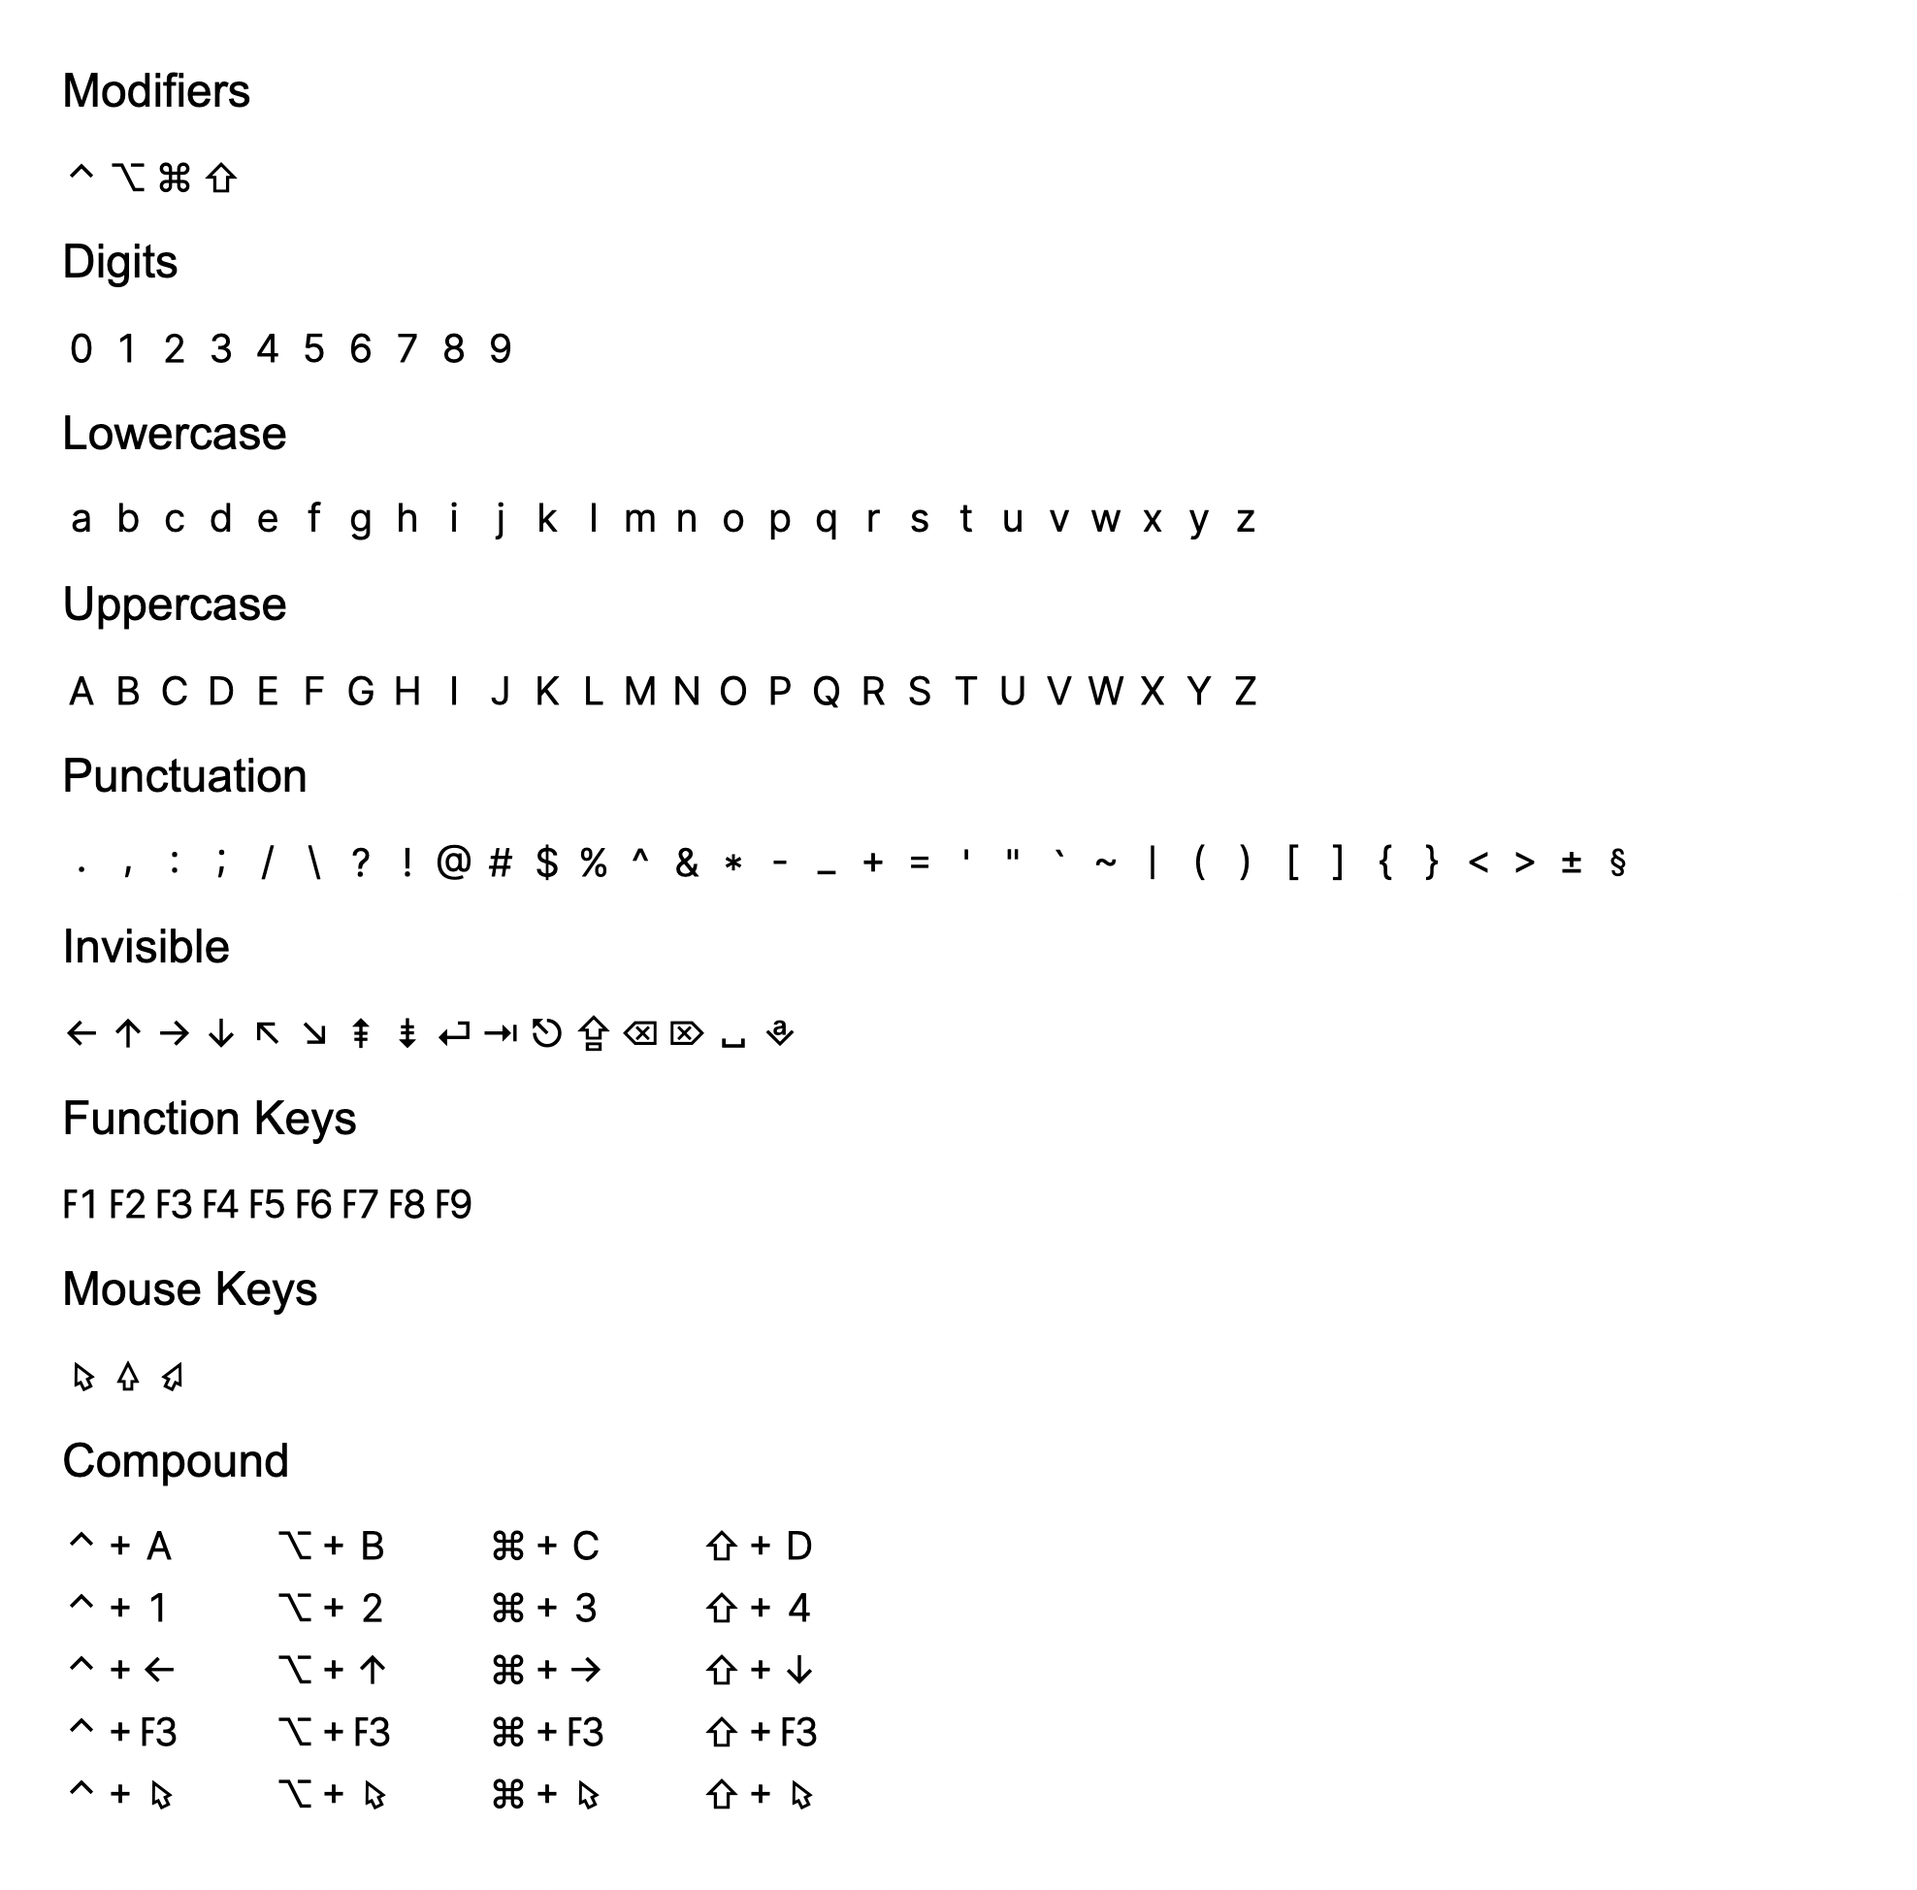
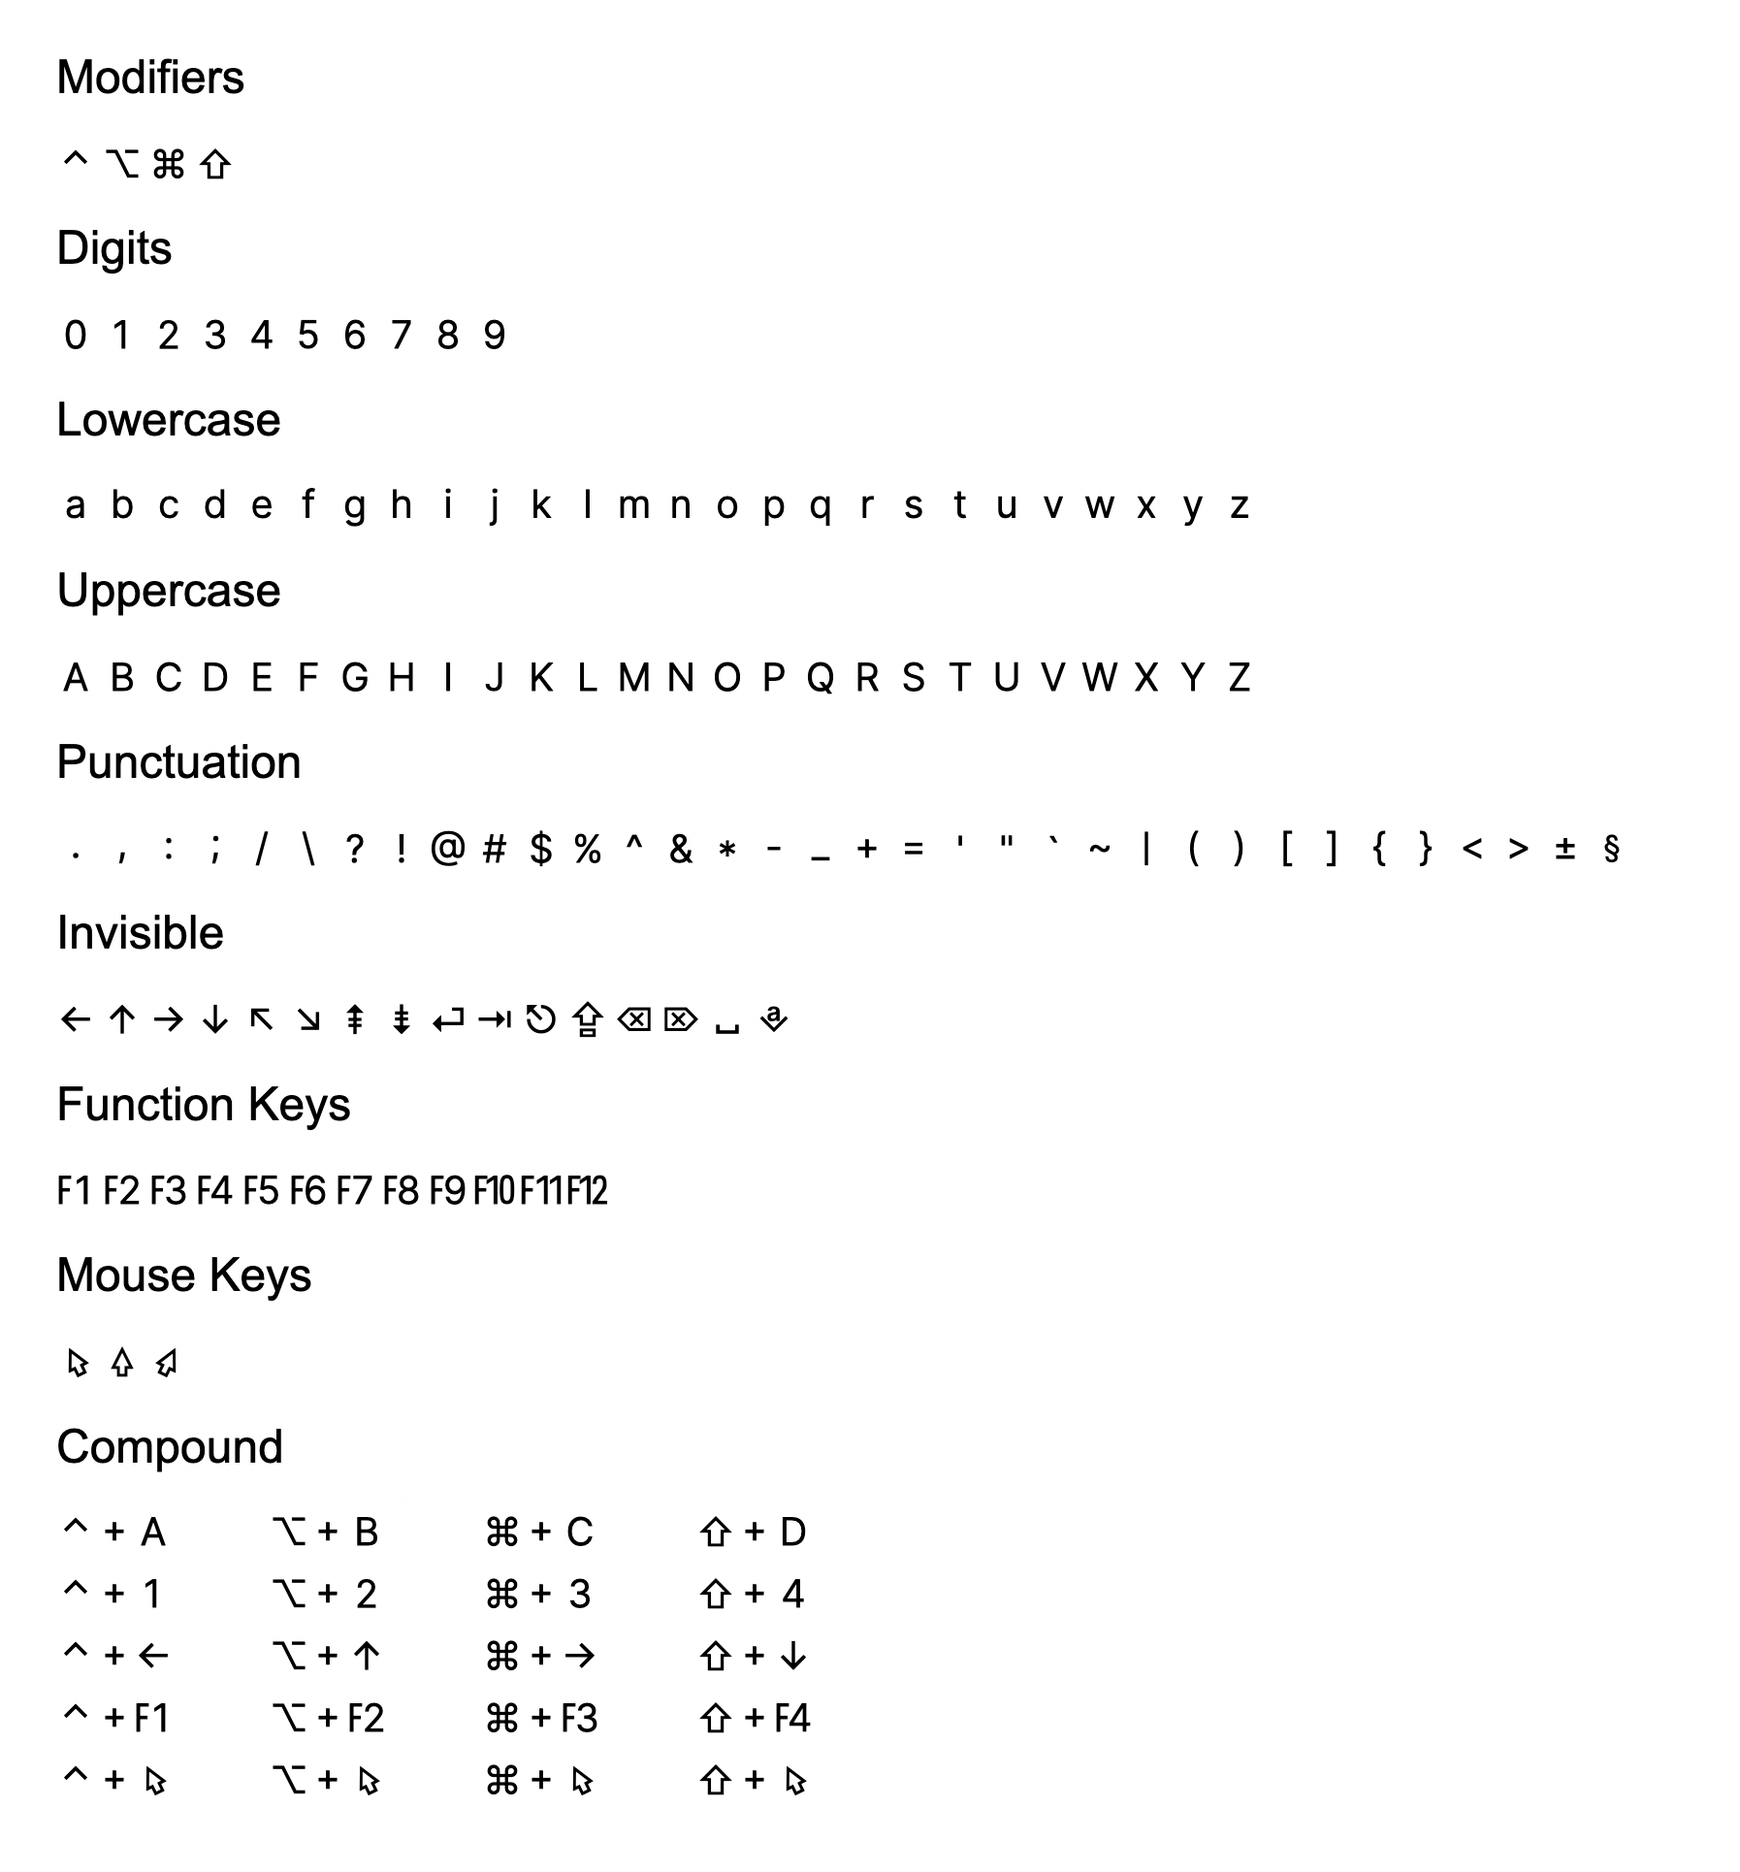
Added best-effort support for F10, F11 and F12

diff --git a/resources/demo/index.html b/resources/demo/index.html
@@ -194,6 +194,9 @@
       <div class="shortcut" title="F7">F7</div>
       <div class="shortcut" title="F8">F8</div>
       <div class="shortcut" title="F9">F9</div>
+      <div class="shortcut" title="F10">F10</div>
+      <div class="shortcut" title="F11">F11</div>
+      <div class="shortcut" title="F12">F12</div>
 
       <!--
       <h2>Numpad Keys</h2>
@@ -248,10 +251,10 @@
       </div>
 
       <div class="shortcuts">
-        <div class="shortcut">⌃+F3</div>
-        <div class="shortcut">⌥+F3</div>
+        <div class="shortcut">⌃+F1</div>
+        <div class="shortcut">⌥+F2</div>
         <div class="shortcut">⌘+F3</div>
-        <div class="shortcut">⇧+F3</div>
+        <div class="shortcut">⇧+F4</div>
       </div>
 
       <div class="shortcuts">
